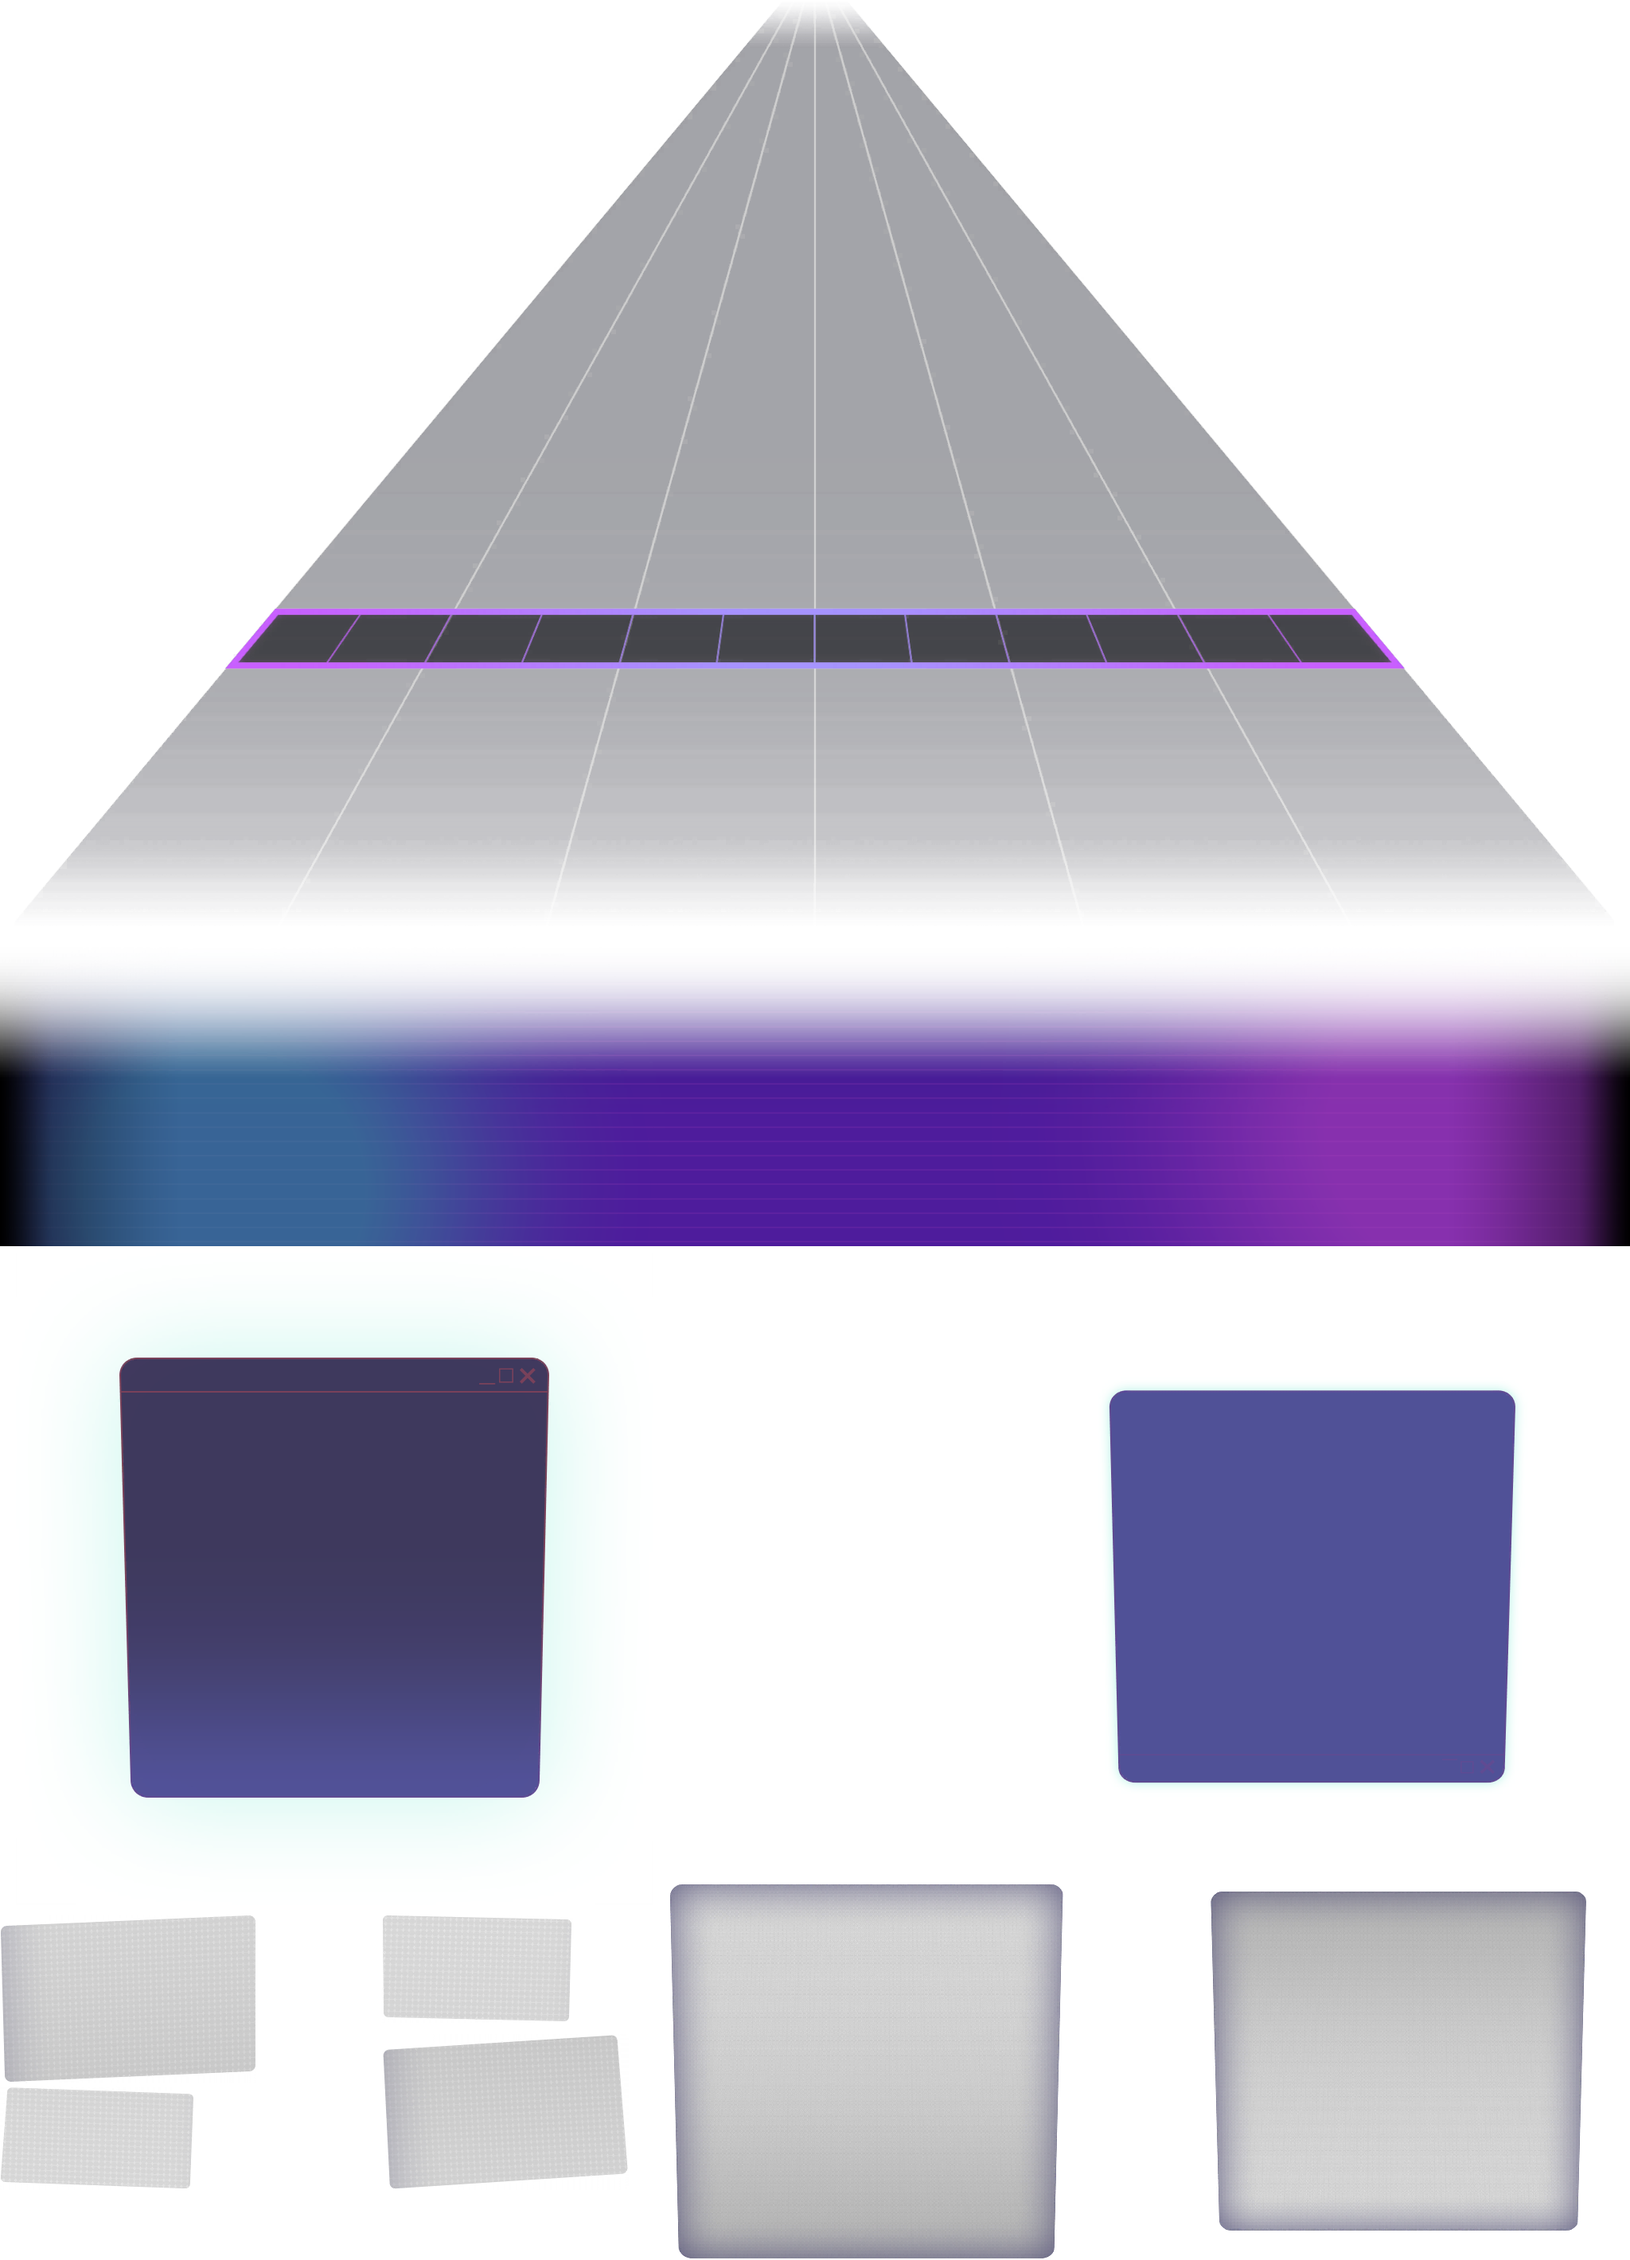
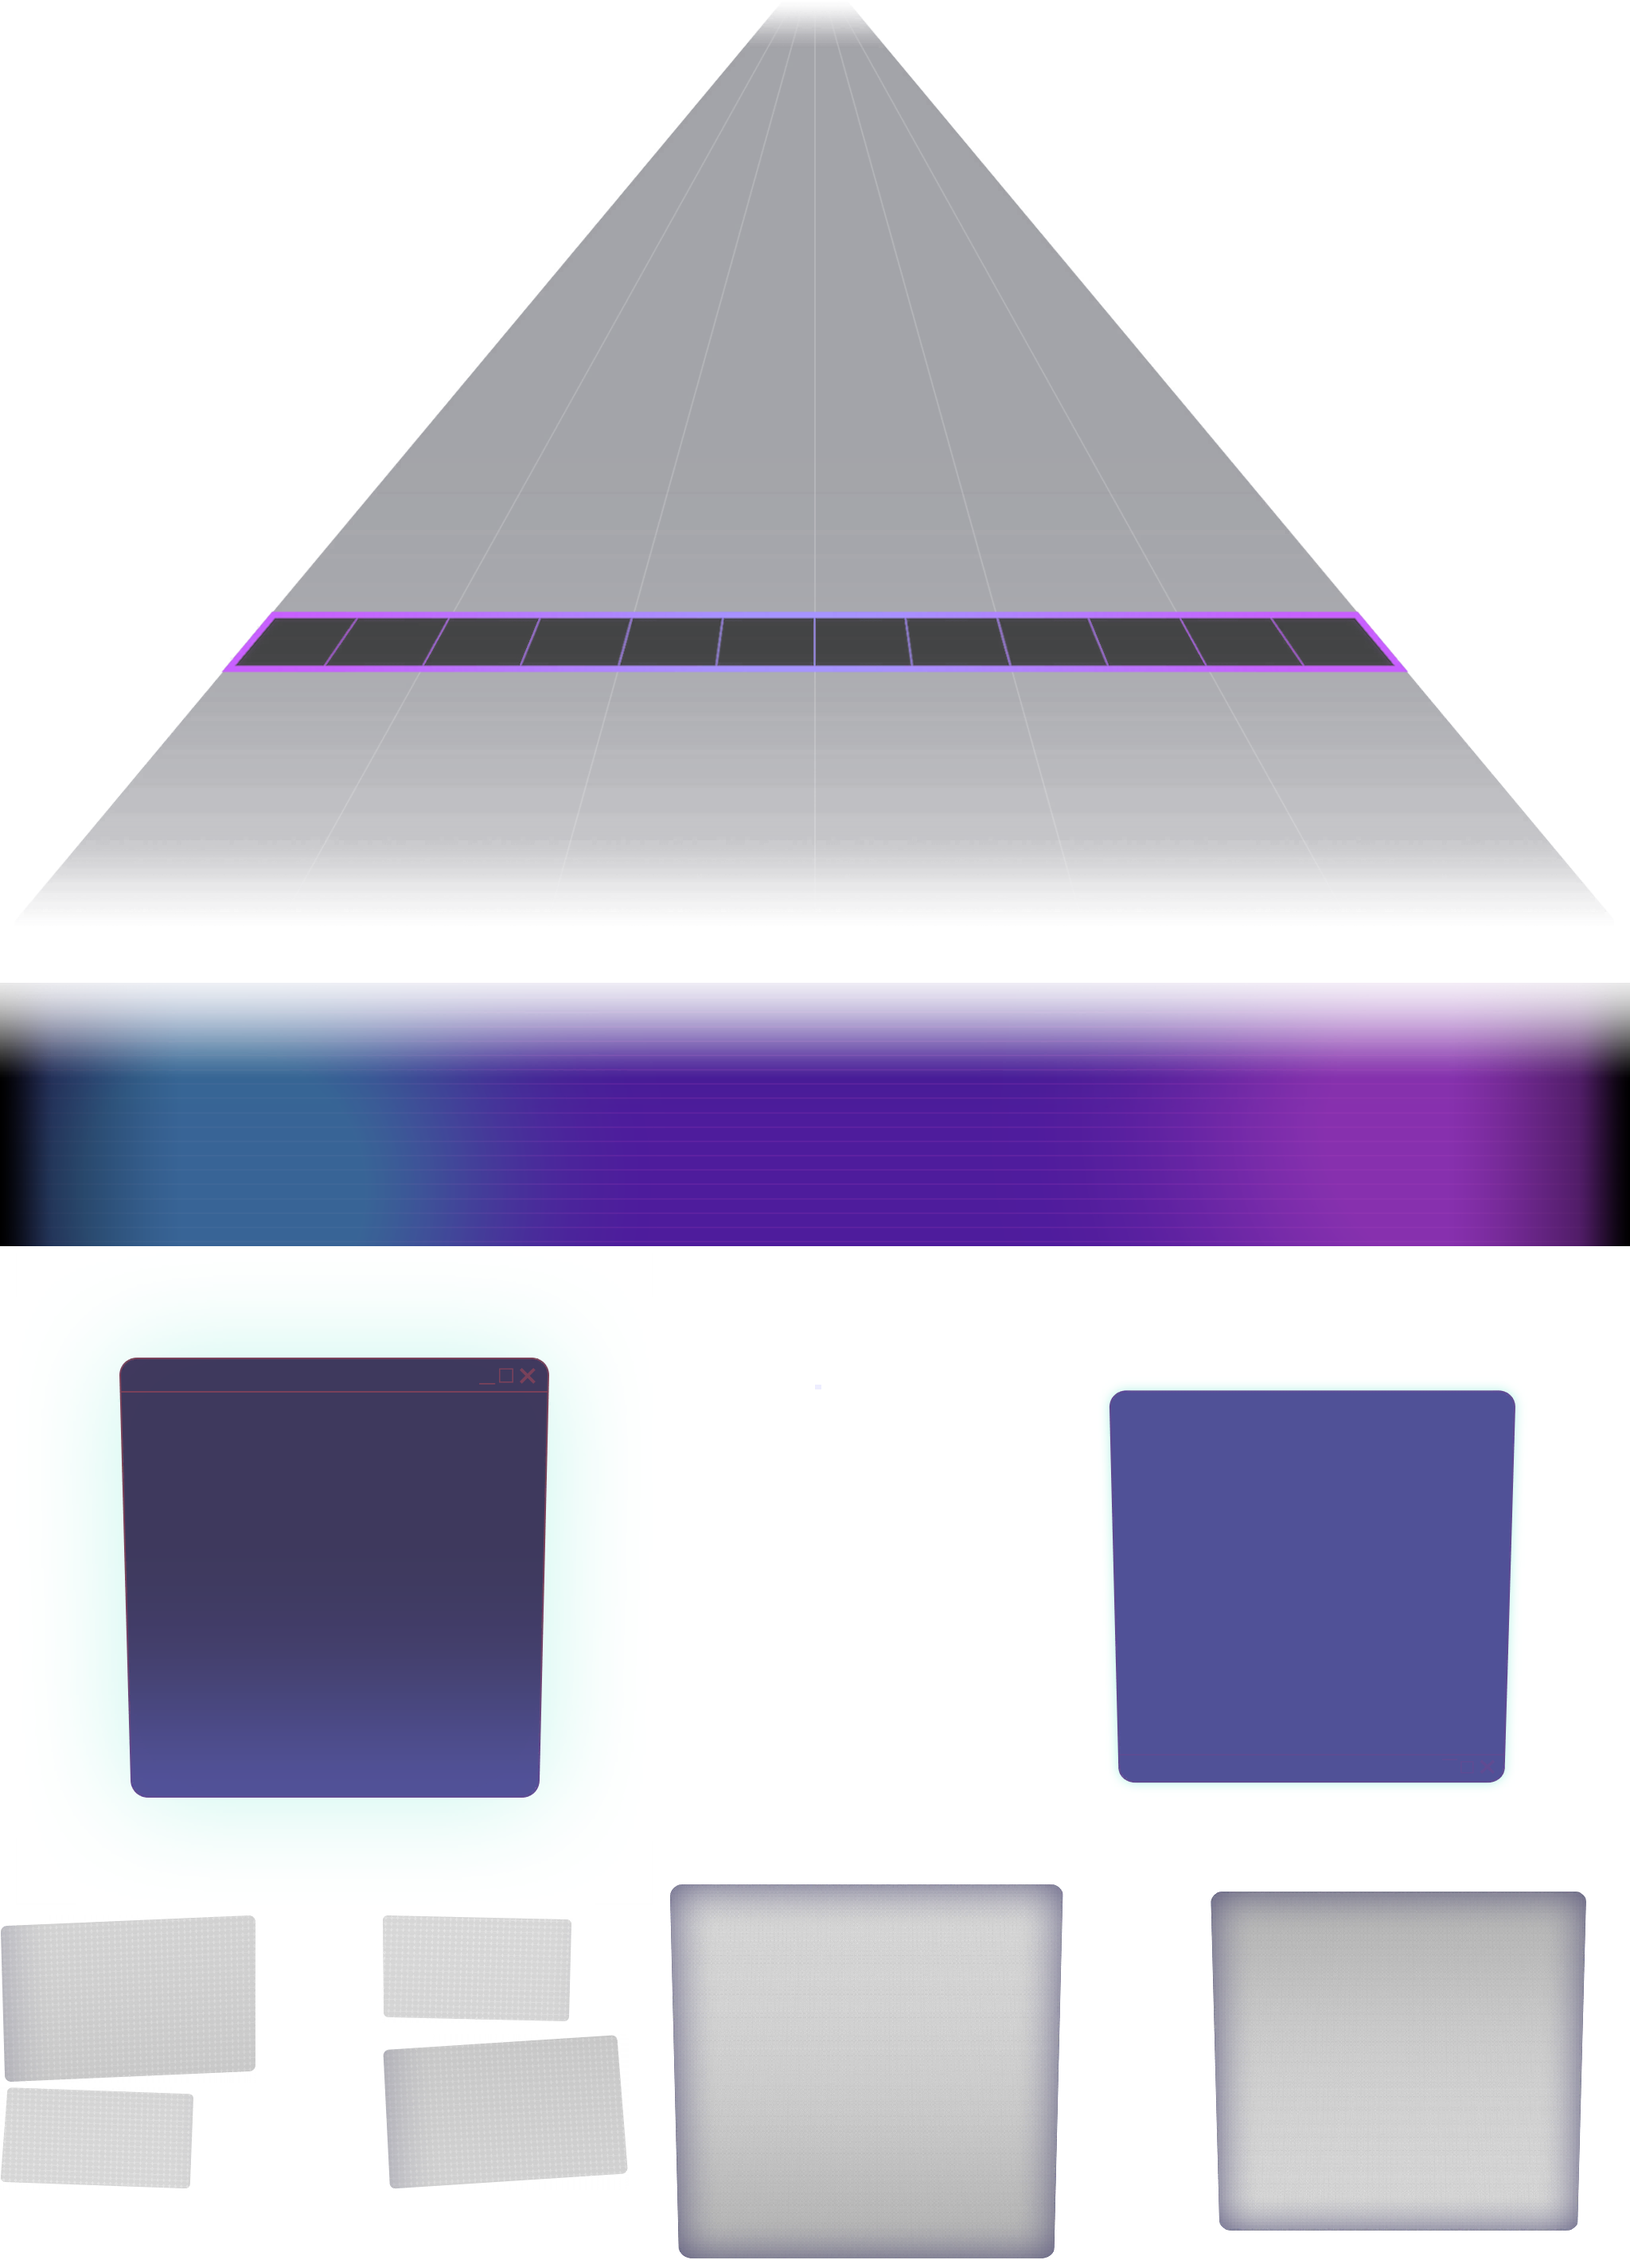
Fix preview stage cover line

Changed region(s): [[0.1562, 0.2479, 0.8438, 0.3099]]

diff --git a/MikuMikuWorld/ScorePreview.cpp b/MikuMikuWorld/ScorePreview.cpp
@@ -546,27 +546,32 @@ namespace MikuMikuWorld
 		renderer->drawQuad(
 			Engine::quadvPos(stageLeft, stageRight, stageTop + stageHeight, stageTop), model, stage,
 			stageSprite.getX1(), stageSprite.getX2(), stageSprite.getY1(), stageSprite.getY1() + spriteHeight,
-			Color{0.f, 0.f, 0.f, config.pvStageOpacity}, 0
+			Color{0.f, 0.f, 0.f, config.pvStageOpacity * 0.6f}, 0
 		);
 	}
 
 	void MikuMikuWorld::ScorePreviewWindow::drawStageCoverDecoration(Renderer *renderer)
 	{
+		int texIndex = ResourceManager::getTexture("stage");
+		if (texIndex == -1)
+			return;
+
+		const Texture& stageTex = ResourceManager::textures[texIndex];
 		constexpr float stageTop = Engine::STAGE_LANE_TOP / Engine::STAGE_LANE_HEIGHT;
-		const Texture& noteTex = getNoteTexture();
-		size_t sprIndex = SPR_SIMULTANEOUS_CONNECTION;
+		size_t sprIndex = StageSprite::SPR_MASK_LINE;
 		size_t transIndex = static_cast<size_t>(SpriteType::SimultaneousLine);
-		if (!isArrayIndexInBounds(sprIndex, noteTex.sprites)) return;
+		if (!isArrayIndexInBounds(sprIndex, stageTex.sprites)) return;
 		if (!isArrayIndexInBounds(transIndex, ResourceManager::spriteTransforms)) return;
 		const SpriteTransform& lineTransform = ResourceManager::spriteTransforms[transIndex];
-		const Sprite& sprite = noteTex.sprites[sprIndex];
+		const Sprite& sprite = stageTex.sprites[sprIndex];
 		float x = 0.12 * (1 - config.pvStageCover);
-		auto vPos = lineTransform.apply(Engine::perspectiveQuadvPos(-6 - x, 6 + x, 1. + Engine::getNoteHeight(), 1. - Engine::getNoteHeight()));
+		float heightScale = Engine::getNoteHeight() * 0.5f;
+		auto vPos = lineTransform.apply(Engine::perspectiveQuadvPos(-6 - x, 6 + x, 1. + heightScale, 1. - heightScale));
 		float y = stageTop + config.pvStageCover * (1 - stageTop);
 		auto model = DirectX::XMMatrixScaling(y, y, 1.f);
-		renderer->drawQuad(vPos, model, noteTex,
-			sprite.getX1(), sprite.getX2(), sprite.getY1(), sprite.getY2(),
-			defaultTint.scaleAlpha(config.pvStageOpacity), -1
+		renderer->drawQuad(vPos, model, stageTex,
+			sprite.getX1(), sprite.getX2(), sprite.getY2(), sprite.getY1(),
+			defaultTint.scaleAlpha(config.pvStageOpacity * 0.6f), -1
 		);
 	}
 

diff --git a/MikuMikuWorld/ImageCrop.h b/MikuMikuWorld/ImageCrop.h
@@ -79,6 +79,7 @@ namespace MikuMikuWorld
 		SPR_MIRROR_JACKET_MASK,
 		SPR_MIRROR_JACKET_LEFT_MASK,
 		SPR_MIRROR_JACKET_RIGHT_MASK,
+		SPR_MASK_LINE,
 		STAGE_SPR_COUNT
 	};
 
